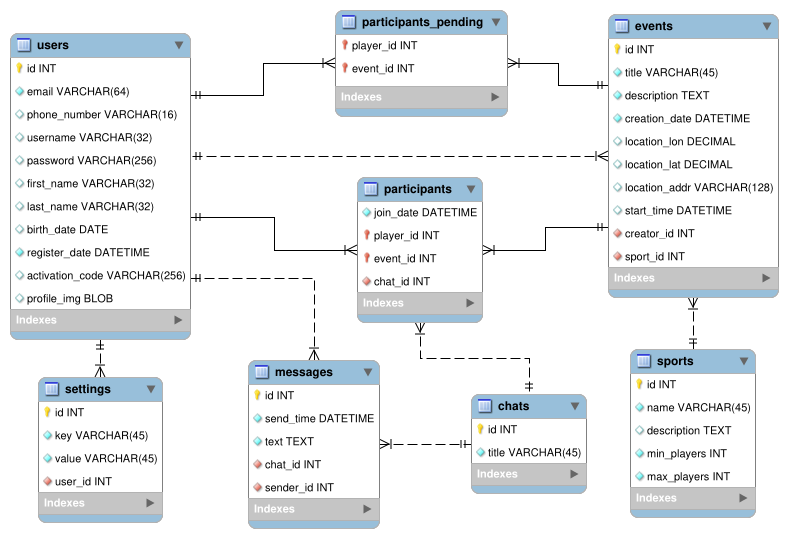
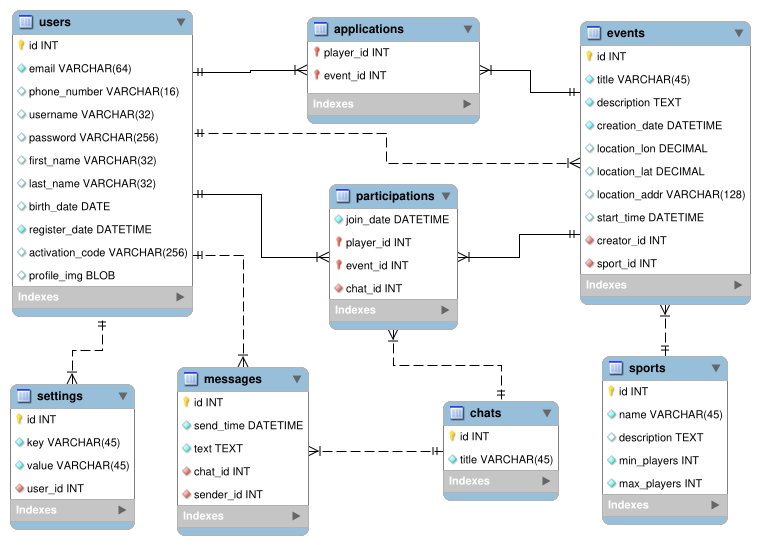
Renamed participants_pending to applications and participants to participations

diff --git a/database/src/main/java/hr/foi/air/database/SportDatabase.java b/database/src/main/java/hr/foi/air/database/SportDatabase.java
@@ -6,7 +6,7 @@ import androidx.room.RoomDatabase;
 import hr.foi.air.database.entities.*;
 
 @Database(version=1,
-        entities = {User.class, Sport.class, Event.class, Setting.class, Chat.class, Message.class, Participant.class, PendingParticipant.class},
+        entities = {User.class, Sport.class, Event.class, Setting.class, Chat.class, Message.class, Participation.class, EventApplication.class},
         views = {},
         exportSchema = false)
 public abstract class SportDatabase extends RoomDatabase {

diff --git a/database/src/main/java/hr/foi/air/database/entities/Participation.java b/database/src/main/java/hr/foi/air/database/entities/Participation.java
@@ -9,9 +9,9 @@ import java.util.Date;
 
 import hr.foi.air.database.converters.DateConverter;
 
-@Entity(tableName = "participants", primaryKeys = {"player_id", "event_id"})
+@Entity(tableName = "participations", primaryKeys = {"player_id", "event_id"})
 @TypeConverters(DateConverter.class)
-public class Participant {
+public class Participation {
     @ForeignKey(entity = User.class, parentColumns = "id", childColumns = "player_id")
     @ColumnInfo(index = true, name = "player_id")
     int playerId;

diff --git a/database/src/main/java/hr/foi/air/database/entities/EventApplication.java b/database/src/main/java/hr/foi/air/database/entities/EventApplication.java
@@ -4,8 +4,8 @@ import androidx.room.ColumnInfo;
 import androidx.room.Entity;
 import androidx.room.ForeignKey;
 
-@Entity(tableName = "participants_pending", primaryKeys = {"player_id", "event_id"})
-public class PendingParticipant {
+@Entity(tableName = "applications", primaryKeys = {"player_id", "event_id"})
+public class EventApplication {
     @ForeignKey(entity = User.class, parentColumns = "id", childColumns = "player_id")
     @ColumnInfo(index = true, name = "player_id")
     int playerId;
